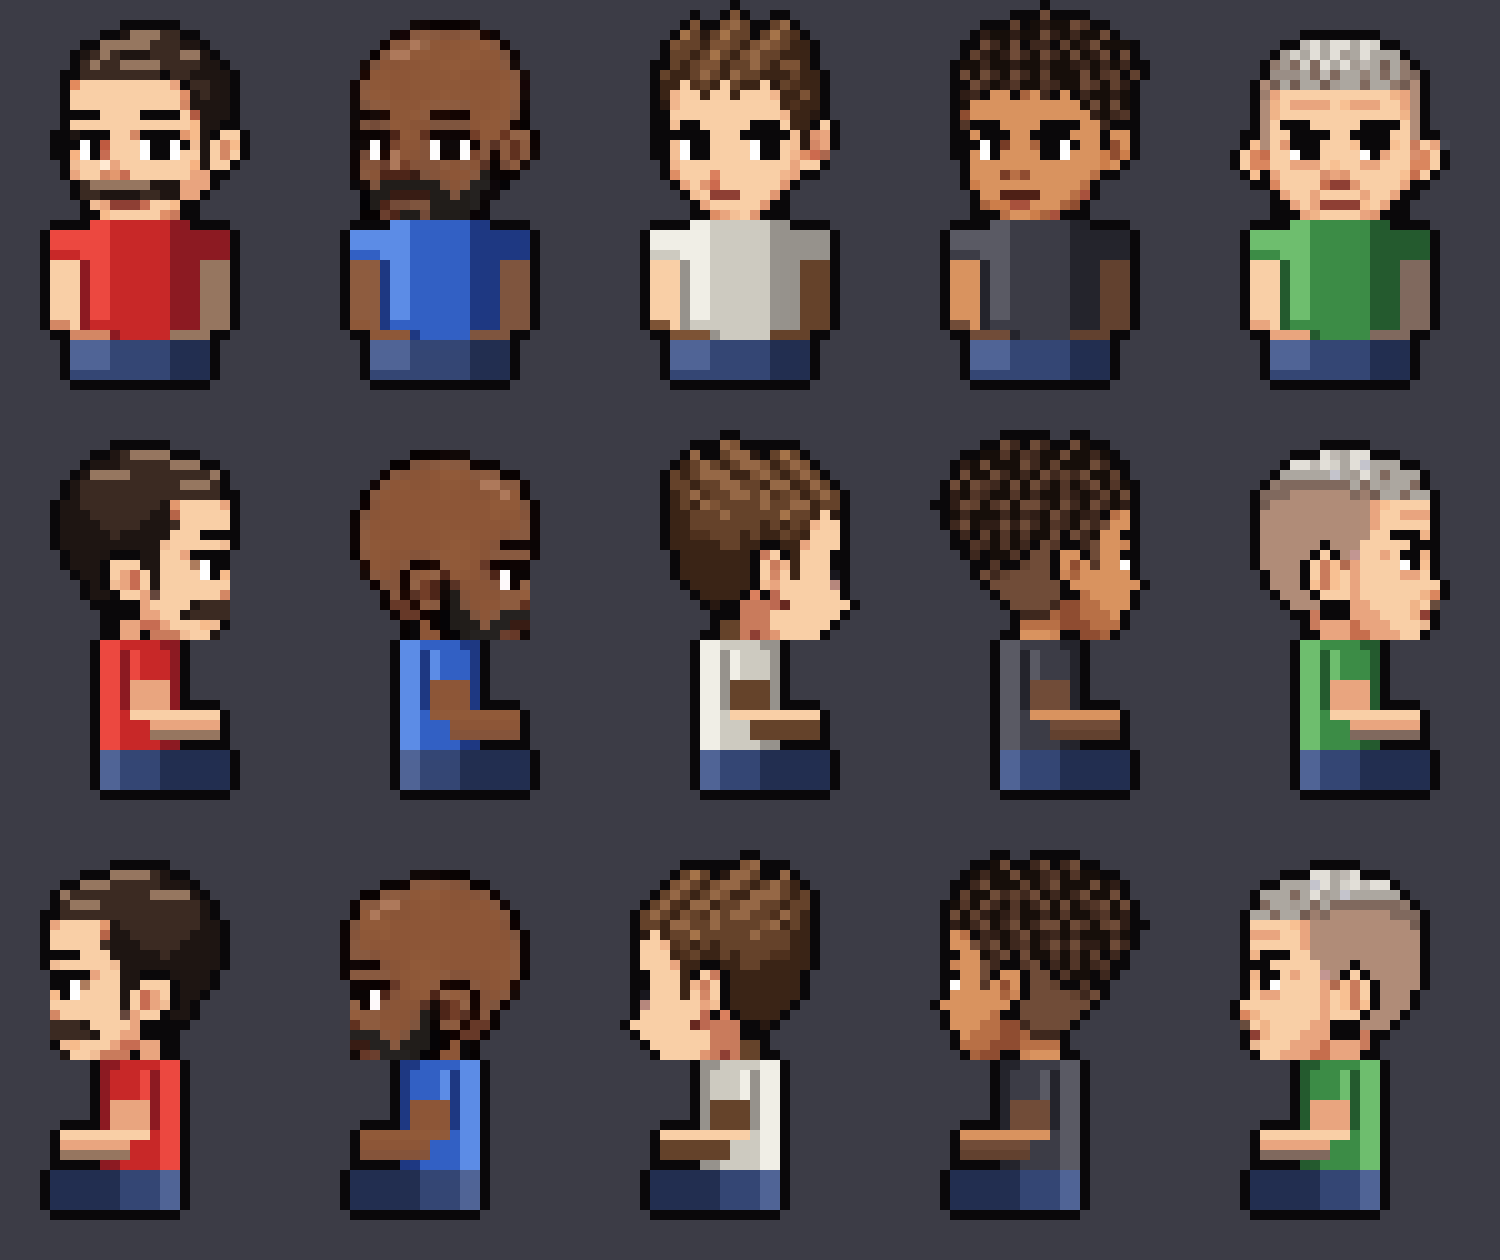
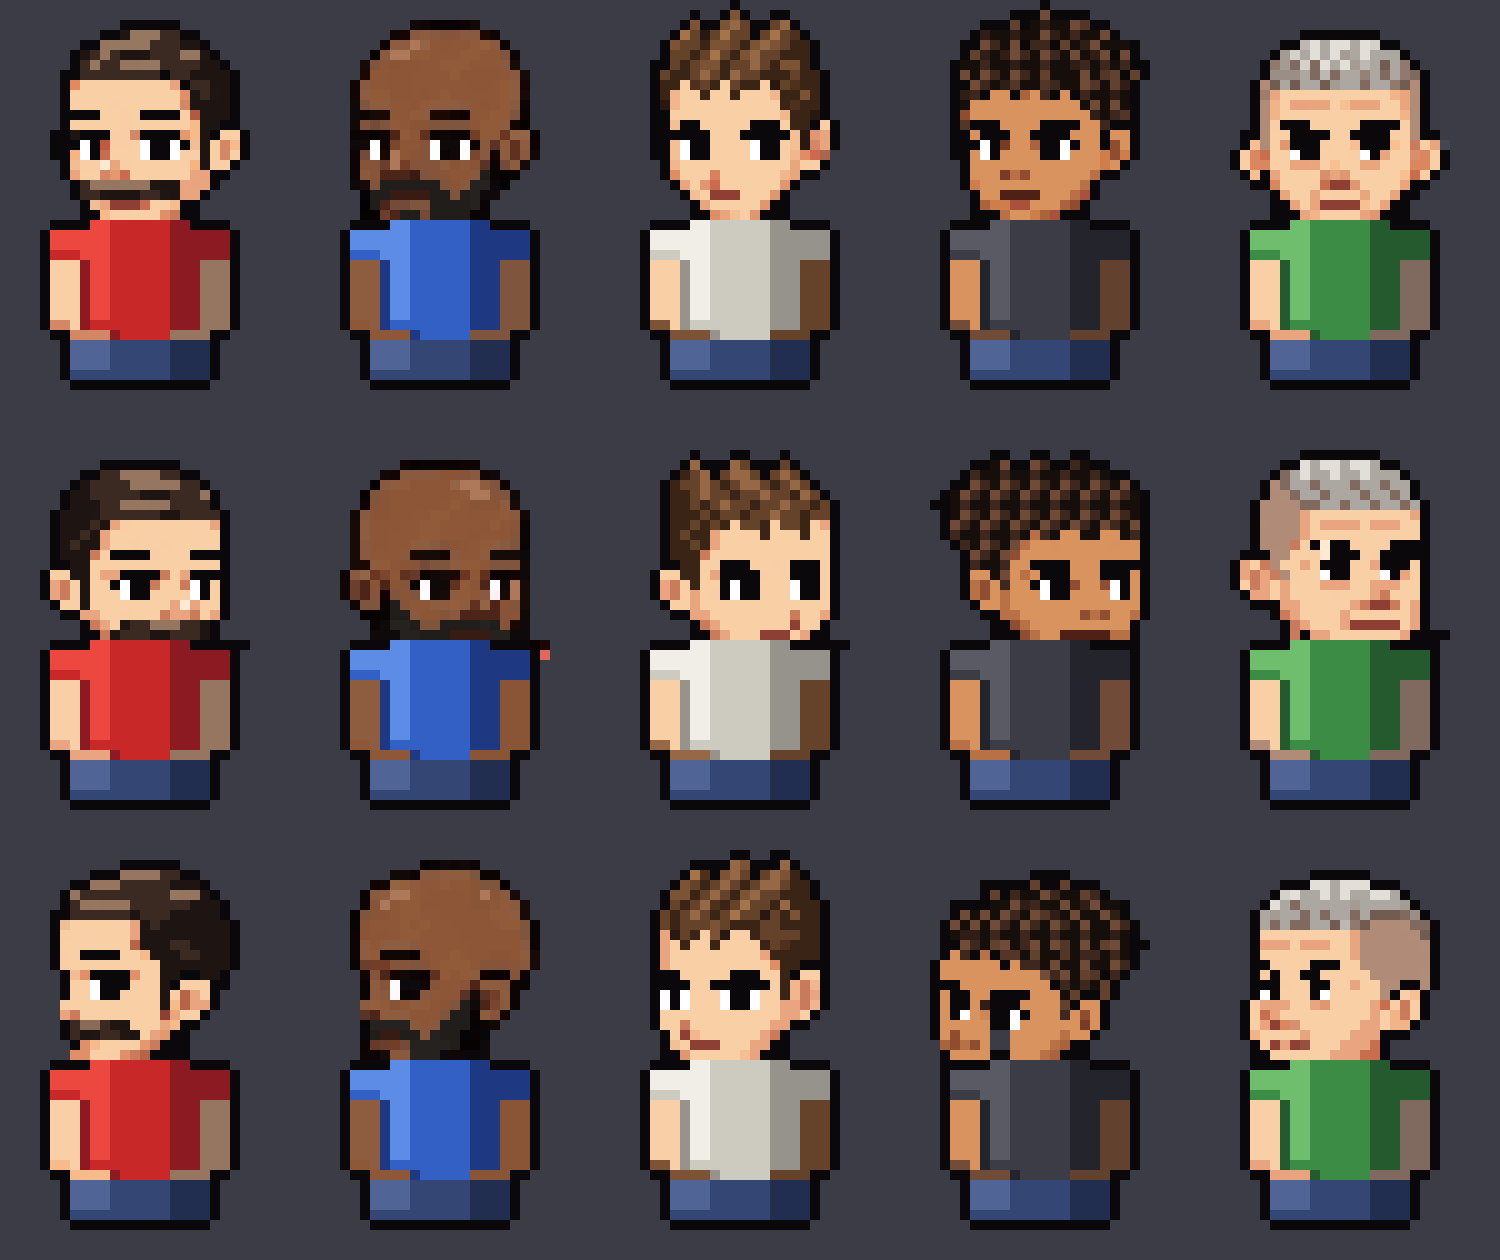
Fãs: teste de lado com cabeças a 3/4
Claude-Session: https://claude.ai/code/session_01KDZthyf9r1UXjaFXmiFsU3

diff --git a/arte/cenario/fas/fas.py b/arte/cenario/fas/fas.py
@@ -59,16 +59,16 @@ def cabeca(im):
         else:                                   # ao lado do pescoço: desce enquanto houver cara, sem entrar nos ombros
             y = top
             while y < h and not ok(x, y) and y < rn: y += 1
-            while y + 1 <= rn + 1 and ok(x, y + 1): y += 1
-            lim[x] = min(y, rn + 1)
-    out = Image.new('RGBA', (W, rn - top + 3)); po = out.load()
+            while y + 1 <= rn + 2 and ok(x, y + 1): y += 1
+            lim[x] = min(y, rn + 2)
+    out = Image.new('RGBA', (W, rn - top + 4)); po = out.load()
     for x in range(w):
         X = x - cx + W // 2
         if not 0 <= X < W: continue
         for y in range(top, lim[x] + 1):
             if ok(x, y): po[X, y - top] = px[x, y]
     # restos soltos dos ombros ao lado do pescoço (linhas finas fora da cara) saem
-    for yy in range(max(0, rn - top - 1), out.size[1]):
+    for yy in range(rn - top + 1, out.size[1]):
         for X in range(W):
             if not po[X, yy][3]: continue
             viz = sum(1 for a in (-1, 0, 1) for b in (-1, 0, 1) if (a or b) and 0 <= X + a < W and 0 <= yy + b < out.size[1] and po[X + a, yy + b][3])
@@ -83,13 +83,13 @@ def fontes():
     """cabeças de frente (vista 1) e de costas (vista 6) das cabeças que já existem"""
     f = []
     base = os.path.join(CAB, 'variantes', '00-corpo-base')
-    f.append((Image.open(os.path.join(base, 'south-west.png')).convert('RGBA'), Image.open(os.path.join(base, 'north.png')).convert('RGBA'), Image.open(os.path.join(base, 'east.png')).convert('RGBA')))
+    f.append((Image.open(os.path.join(base, 'south-west.png')).convert('RGBA'), Image.open(os.path.join(base, 'north.png')).convert('RGBA'), Image.open(os.path.join(base, 'south.png')).convert('RGBA'), Image.open(os.path.join(base, 'west.png')).convert('RGBA')))
     v1 = os.path.join(CAB, 'variantes', '01')
     if os.path.exists(os.path.join(v1, 'south-west.png')):
-        f.append((Image.open(os.path.join(v1, 'south-west.png')).convert('RGBA'), Image.open(os.path.join(v1, 'north.png')).convert('RGBA'), Image.open(os.path.join(v1, 'east.png')).convert('RGBA')))
+        f.append((Image.open(os.path.join(v1, 'south-west.png')).convert('RGBA'), Image.open(os.path.join(v1, 'north.png')).convert('RGBA'), Image.open(os.path.join(v1, 'south.png')).convert('RGBA'), Image.open(os.path.join(v1, 'west.png')).convert('RGBA')))
     for n in (1, 4, 7):                                       # a, c, b (os GIFs da PixelLab; a das tranças saiu)
         if os.path.exists(f'{GIFS}{n}.gif'):
-            fr = frames_gif(n); f.append((fr[7], fr[4], fr[2]))
+            fr = frames_gif(n); f.append((fr[7], fr[4], fr[0], fr[6]))
     return f
 ROUPA = [((236, 72, 64), (200, 40, 40), (140, 26, 34)), ((92, 140, 230), (50, 96, 196), (30, 56, 130)),
          ((240, 238, 230), (205, 202, 192), (150, 146, 140)), ((90, 90, 100), (60, 60, 70), (36, 36, 44)),
@@ -212,17 +212,13 @@ def limpa(im):
                     px[x, y] = (min(claros, key=lambda q: sum(q[:3])) if claros else cheios[0])
                 elif px[x, y][3] and sum(px[x, y][:3]) < 60:
                     viz = sum(1 for a in (-1, 0, 1) for b in (-1, 0, 1) if (a or b) and px[x + a, y + b][3])
-                    if viz <= 2: px[x, y] = (0, 0, 0, 0)
+                    if viz <= 1: px[x, y] = (0, 0, 0, 0)
     return im
 def fa(fonte, pose, costas, roupa, calca, lado=None):
-    frente, tras, perfil = fonte
-    if lado:                                                  # 'dir' ou 'esq' (o da esquerda é o espelho)
-        head, rampa, hh = cabeca(perfil)
-        im = corpo_lado(roupa, calca, rampa)
-        im.alpha_composite(head, (0, 21 - hh))
-        im = limpa(im)
-        return im.transpose(Image.FLIP_LEFT_RIGHT) if lado == 'esq' else im
-    head, rampa, hh = cabeca(tras if costas else frente)
+    frente, tras, dir34, esq34 = fonte
+    # de lado: a cabeça a 3/4 (vistas 2 e 8), virada para o ringue; de perfil as luvas tapam o queixo dos atletas
+    src = (dir34 if lado == 'dir' else esq34) if lado else (tras if costas else frente)
+    head, rampa, hh = cabeca(src)
     im = corpo(pose, costas, roupa, calca, rampa)
     im.alpha_composite(head, (0, 21 - hh))                    # primeiro a camisola e o pescoço, depois a cabeça recortada por cima
     if pose == 'bracos': im.alpha_composite(bracos_no_ar(rampa, roupa))
